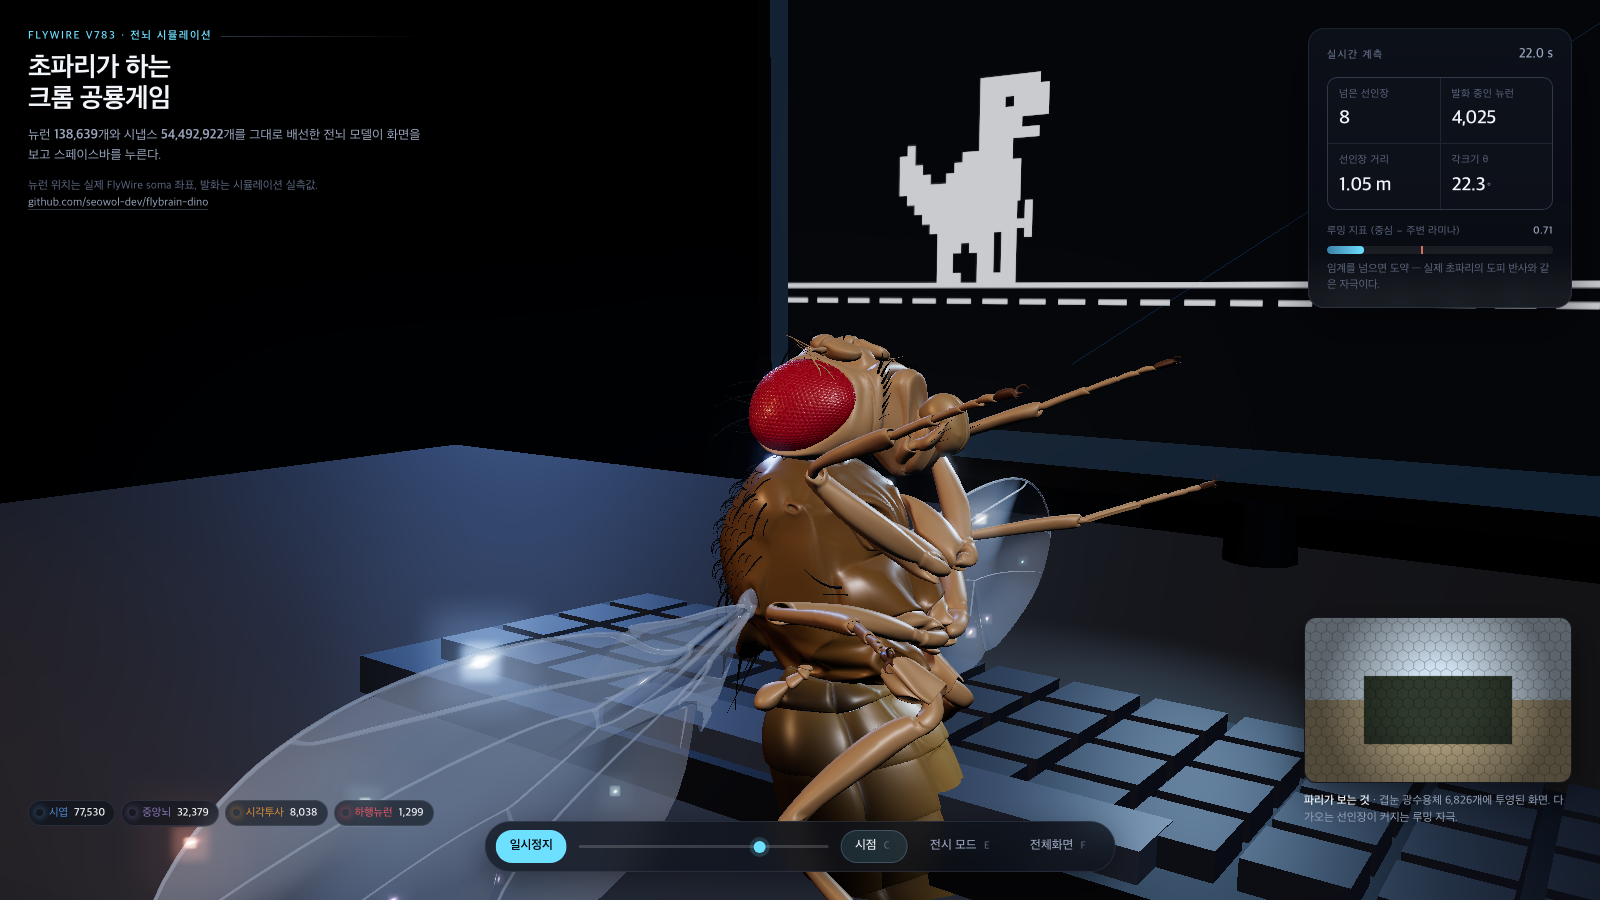
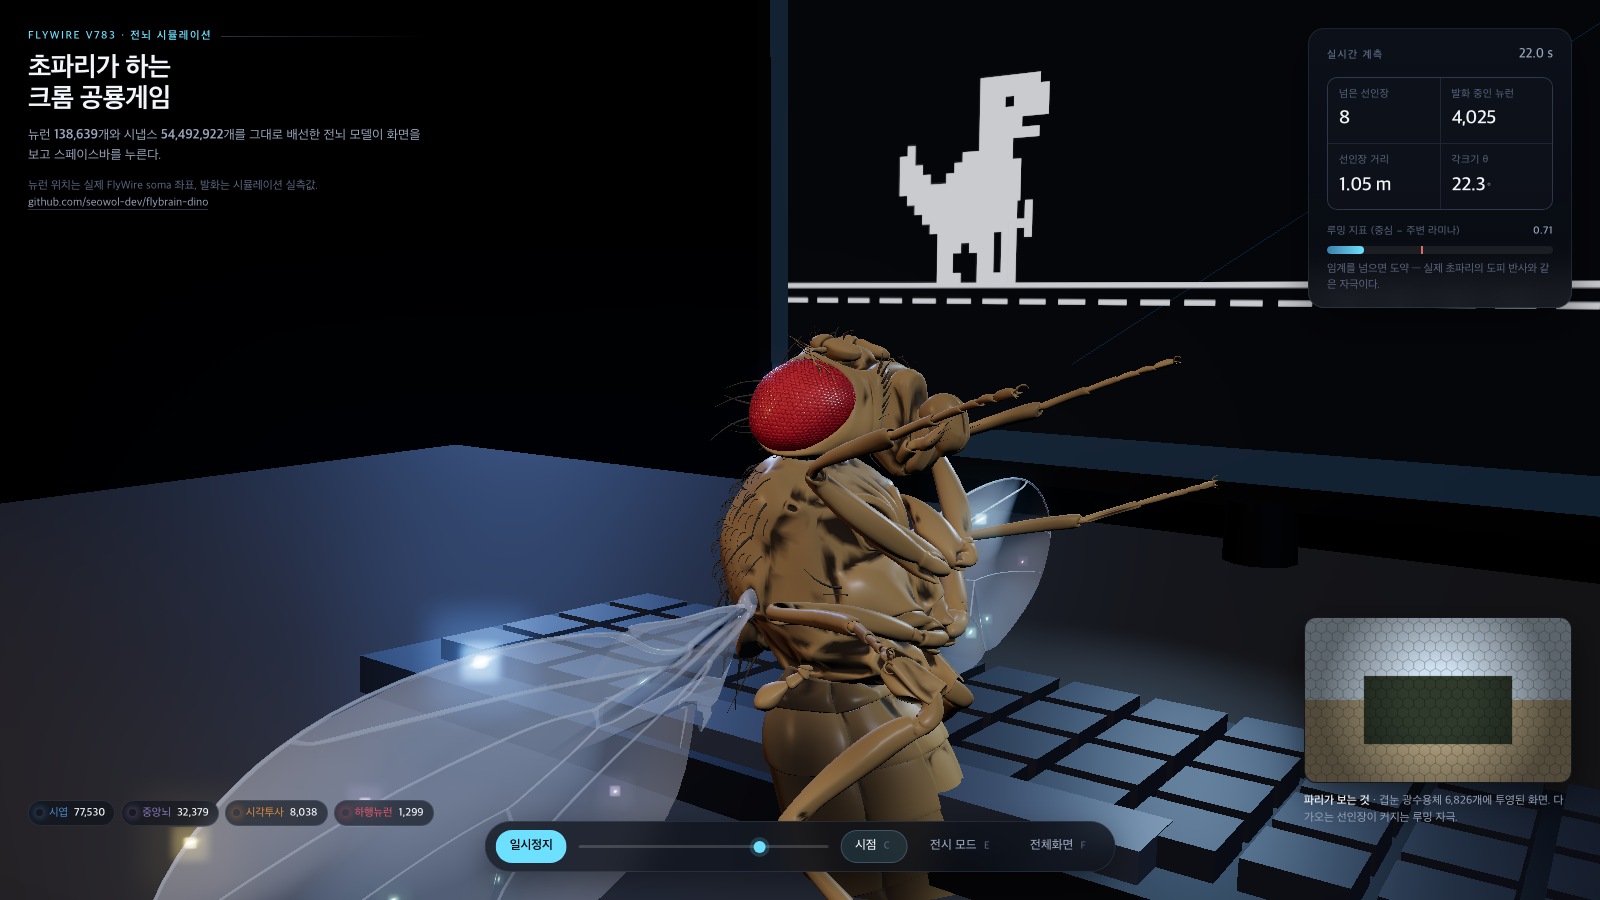
초파리 표면 질감: 지오메트리 기반 정점색 + 거칠기 변조
모델에 UV 가 없어 이미지 텍스처를 못 쓴다. 대신 지오메트리에서 표면 디테일을 계산한다.

src/fly_detail.js — 정점색(COLOR_0) 굽기
- 요철(cavity): 이웃 정점 평균이 법선 안쪽이면 오목. 낱눈 사이 골, 배마디 틈,
  강모 뿌리가 어두워진다. **국소 모서리 길이로 정규화**하는 것이 핵심이다.
  처음엔 메시 반지름으로 나눴는데, 그러면 흉부·복부 같은 큰 매끈한 면에서 값이
  0 으로 죽어 아무 디테일도 안 나왔다(점토처럼 보이던 원인).
- 3D 값잡음 반점, 등쪽 음영, 복부 마디 뒤쪽 검은 띠.
- 겹눈은 가장자리로 갈수록 어둡게.

fly_model.js — 재질
- roughnessFromColor(): 셰이더에 한 줄 주입해 정점색 밝기로 거칠기를 변조한다.
  골은 거칠고 융기는 매끈하다. 알베도보다 광택 변화가 사실감에 더 기여한다.
- 겹눈 clearcoat 1.0 / roughness 0.04 (각막 렌즈), 날개 iridescence(얇은 막 간섭),
  큐티클 sheen 낮춤 — 기존 clearcoat/sheen 이 세서 알베도 디테일을 덮고 있었다.

형태는 원본 그대로이고 색과 재질만 바꿨다. ATTRIBUTION.md 에 명시했다.

diff --git a/web/src/fly_model.js b/web/src/fly_model.js
@@ -8,6 +8,7 @@
 // 로 내보낸다. 여기서 피벗을 기준으로 관절 계층을 복원해 머리·날개·앞다리를 움직인다.
 import * as THREE from '../vendor/three.module.js';
 import { GLTFLoader } from '../vendor/GLTFLoader.js';
+import { bakeDetail } from './fly_detail.js';
 
 const SKIN = {
   body: 0xb0682a, lower: 0xcb9a5f, black: 0x121212,
@@ -67,64 +68,83 @@ function depth(parts, name) {
   return d;
 }
 
-// 복부 가로띠. MuJoCo 모델은 몸이 단색 황갈색이지만 실제 D. melanogaster 는 각 배마디
-// 뒤쪽에 검은 띠가 있고 끝으로 갈수록 어두워진다. 몸 장축(z) 기준 톱니 함수로 정점색을
-// 칠해 이를 만든다. (형태가 아니라 색만 더한 것이다.)
-function abdomenBands(mesh) {
-  const g = mesh.geometry;
-  const pos = g.attributes.position;
-  g.computeBoundingBox();
-  const bb = g.boundingBox;
-  const z0 = bb.min.z, z1 = bb.max.z, span = Math.max(z1 - z0, 1e-6);
-  const col = new Float32Array(pos.count * 3);
-  const light = new THREE.Color(0xc79a53), dark = new THREE.Color(0x2b1c0c);
-  const c = new THREE.Color();
-  for (let i = 0; i < pos.count; i++) {
-    const u = (pos.getZ(i) - z0) / span;          // 0 = 앞, 1 = 뒤
-    const edge = Math.pow(Math.max(0, u - 0.42) / 0.58, 1.4);   // 마디 뒤쪽이 어둡다
-    c.copy(light).lerp(dark, Math.min(1, edge));
-    col[i * 3] = c.r; col[i * 3 + 1] = c.g; col[i * 3 + 2] = c.b;
+// 부위 분류 — MuJoCo geom 이름(`body__geom`)에서 재질 종류를 읽는다.
+function kindOf(name) {
+  if (/_red\b|red$|_red_/.test(name)) return 'eye';
+  if (/ocelli/.test(name)) return 'ocelli';
+  if (/wing/.test(name)) return 'wing';
+  if (/bristle|_black/.test(name)) return 'bristle';
+  if (/abdomen/.test(name)) return 'abdomen';
+  return 'cuticle';
+}
+
+// 정점색의 밝기로 거칠기를 변조한다. 골(어두운 곳)은 거칠고 융기(밝은 곳)는 매끈하다.
+// 표면이 '진짜'로 보이는 데는 알베도보다 광택 변화가 더 크게 기여한다. UV 가 없어
+// roughnessMap 을 못 쓰므로 셰이더에 직접 주입한다.
+function roughnessFromColor(mat, amount) {
+  mat.onBeforeCompile = (shader) => {
+    shader.fragmentShader = shader.fragmentShader.replace(
+      '#include <roughnessmap_fragment>',
+      `#include <roughnessmap_fragment>
+       #ifdef USE_COLOR
+         float _lum = dot(vColor.rgb, vec3(0.2126, 0.7152, 0.0722));
+         roughnessFactor = clamp(roughnessFactor + (1.0 - _lum) * ${amount.toFixed(3)}, 0.03, 1.0);
+       #endif`);
+  };
+  mat.customProgramCacheKey = () => `rgh${amount}`;
+  return mat;
+}
+
+// 부위별 물리 재질. 실제 초파리 큐티클은 얇은 왁스층이 있어 살짝 번들거리고,
+// 겹눈은 각막 렌즈 때문에 젖은 듯한 강한 정반사가 난다.
+function materialFor(kind, THREE) {
+  const common = { vertexColors: true, color: 0xffffff };
+  switch (kind) {
+    case 'eye':
+      return roughnessFromColor(new THREE.MeshPhysicalMaterial({
+        ...common, roughness: 0.12, metalness: 0.0,
+        clearcoat: 1.0, clearcoatRoughness: 0.04,       // 각막 렌즈
+        specularIntensity: 1.0, specularColor: new THREE.Color(0xfff0ec),
+        emissive: new THREE.Color(0x40060a), emissiveIntensity: 0.35,
+      }), 0.55);
+    case 'ocelli':
+      return new THREE.MeshPhysicalMaterial({
+        color: 0x3a2008, roughness: 0.12, clearcoat: 1.0, clearcoatRoughness: 0.03,
+        emissive: new THREE.Color(0x1a0d02), emissiveIntensity: 0.4,
+      });
+    case 'wing':
+      return new THREE.MeshPhysicalMaterial({
+        ...common, transparent: true, opacity: 0.34, depthWrite: false,
+        roughness: 0.06, metalness: 0.0, side: THREE.DoubleSide,
+        iridescence: 1.0, iridescenceIOR: 1.32,
+        iridescenceThicknessRange: [180, 520],          // 얇은 막 간섭 → 무지개빛
+        clearcoat: 1.0, clearcoatRoughness: 0.04,
+      });
+    case 'bristle':
+      return new THREE.MeshPhysicalMaterial({
+        ...common, roughness: 0.52, metalness: 0.05, clearcoat: 0.25, clearcoatRoughness: 0.45,
+      });
+    case 'abdomen':
+      return roughnessFromColor(new THREE.MeshPhysicalMaterial({
+        ...common, roughness: 0.30, metalness: 0.05,
+        clearcoat: 0.30, clearcoatRoughness: 0.32,
+        sheen: 0.18, sheenRoughness: 0.6, sheenColor: new THREE.Color(0xffd9a0),
+      }), 0.62);
+    default:                                            // cuticle
+      return roughnessFromColor(new THREE.MeshPhysicalMaterial({
+        ...common, roughness: 0.28, metalness: 0.07,
+        clearcoat: 0.32, clearcoatRoughness: 0.30,
+        sheen: 0.20, sheenRoughness: 0.55, sheenColor: new THREE.Color(0xffd9a0),
+      }), 0.66);
   }
-  g.setAttribute('color', new THREE.BufferAttribute(col, 3));
 }
 
 function tune(mesh, name) {
-  const m = mesh.material;
-  const hex = (k) => new THREE.Color(SKIN[k]);
-  const set = (color, opts = {}) => {
-    mesh.material = new THREE.MeshPhysicalMaterial({
-      color, roughness: 0.42, metalness: 0.12, clearcoat: 0.45, clearcoatRoughness: 0.35,
-      ...opts,
-    });
-  };
-  if (/_red\b|_red__|red/.test(name)) {
-    // 겹눈 — 살짝 발광시켜 시각 입력 세기를 표현한다
-    set(hex('red'), { roughness: 0.28, clearcoat: 0.9, clearcoatRoughness: 0.12,
-      emissive: new THREE.Color(0x3a0206), emissiveIntensity: 0.5 });
-    mesh.userData.isEye = true;
-  } else if (/ocelli/.test(name)) {
-    set(hex('ocelli'), { roughness: 0.2, clearcoat: 1.0 });
-  } else if (/black|bristle/.test(name)) {
-    set(hex('black'), { roughness: 0.55, clearcoat: 0.25 });
-  } else if (/wing/.test(name)) {
-    mesh.material = new THREE.MeshPhysicalMaterial({
-      color: 0xdfeaf6, roughness: 0.08, metalness: 0.0, transparent: true, opacity: 0.30,
-      transmission: 0.0, side: THREE.DoubleSide, depthWrite: false,
-      iridescence: 0.9, iridescenceIOR: 1.25, clearcoat: 1.0,
-    });
-  } else if (/abdomen/.test(name)) {
-    abdomenBands(mesh);
-    set(0xffffff, { vertexColors: true, roughness: 0.38, clearcoat: 0.55 });
-    mesh.material.vertexColors = true;
-  } else if (/lower/.test(name)) {
-    set(hex('lower'));
-  } else if (/brown/.test(name)) {
-    set(hex('brown'));
-  } else if (/thorax/.test(name)) {
-    set(0x9c6a2e, { roughness: 0.36, clearcoat: 0.6 });
-  } else {
-    set(m && m.color ? m.color : hex('body'));
-  }
+  const kind = kindOf(name);
+  // 지오메트리에서 요철·반점을 계산해 정점색으로 굽는다 (UV 가 없어 텍스처를 못 쓴다)
+  if (kind !== 'ocelli') bakeDetail(mesh, kind === 'bristle' ? 'bristle' : kind, THREE);
+  mesh.material = materialFor(kind, THREE);
+  if (kind === 'eye') mesh.userData.isEye = true;
 }
 
 /** 프레임 애니메이션. jumpPulse 0~1, act 0~1(시각 입력 세기). */

diff --git a/web/src/fly_detail.js b/web/src/fly_detail.js
@@ -1,0 +1,125 @@
+// 정점 단위 표면 디테일 굽기 — UV 없는 메시에 텍스처 느낌을 만든다.
+//
+// 이 모델에는 UV 가 없어서 이미지 텍스처를 입힐 수 없다. 대신 지오메트리 자체에서
+// 세 가지를 계산해 정점색(COLOR_0)으로 굽는다.
+//
+//   1) 요철(cavity) : 이웃 정점들의 평균 위치가 법선 '안쪽'에 있으면 오목한 곳이다.
+//                     낱눈 사이 골, 배마디 틈, 강모 뿌리가 어두워진다. 형태가 드러나는
+//                     가장 큰 요인이다.
+//   2) 곡면 노출     : 바깥으로 볼록한 곳은 빛을 더 받는다(얕은 AO 대용).
+//   3) 반점(mottle)  : 3D 값잡음. 실제 큐티클은 균일한 플라스틱이 아니다.
+//
+// 모두 지오메트리에서 나오므로 좌표계·스케일이 바뀌어도 같은 결과가 나온다.
+
+const H = (x, y, z) => {
+  // 결정적 3D 해시 (0~1)
+  let h = Math.imul(x | 0, 374761393) ^ Math.imul(y | 0, 668265263) ^ Math.imul(z | 0, 2147483647);
+  h = Math.imul(h ^ (h >>> 13), 1274126177);
+  return ((h ^ (h >>> 16)) >>> 0) / 4294967296;
+};
+
+function valueNoise(x, y, z) {
+  const xi = Math.floor(x), yi = Math.floor(y), zi = Math.floor(z);
+  const xf = x - xi, yf = y - yi, zf = z - zi;
+  const s = (t) => t * t * (3 - 2 * t);
+  const u = s(xf), v = s(yf), w = s(zf);
+  let n = 0;
+  for (let dz = 0; dz < 2; dz++) {
+    for (let dy = 0; dy < 2; dy++) {
+      for (let dx = 0; dx < 2; dx++) {
+        const wt = (dx ? u : 1 - u) * (dy ? v : 1 - v) * (dz ? w : 1 - w);
+        n += wt * H(xi + dx, yi + dy, zi + dz);
+      }
+    }
+  }
+  return n;
+}
+
+/** 이웃 평균 위치 기준 오목도 (0 = 평평/볼록, 1 = 깊이 오목). */
+function cavity(geo) {
+  const pos = geo.attributes.position, nrm = geo.attributes.normal;
+  const n = pos.count;
+  const sum = new Float32Array(n * 3);
+  const cnt = new Uint32Array(n);
+  const idx = geo.index;
+  const add = (a, b) => {
+    sum[a * 3] += pos.getX(b); sum[a * 3 + 1] += pos.getY(b); sum[a * 3 + 2] += pos.getZ(b);
+    cnt[a]++;
+  };
+  if (idx) {
+    for (let i = 0; i < idx.count; i += 3) {
+      const a = idx.getX(i), b = idx.getX(i + 1), c = idx.getX(i + 2);
+      add(a, b); add(a, c); add(b, a); add(b, c); add(c, a); add(c, b);
+    }
+  }
+  // **국소 모서리 길이**로 정규화한다. 메시 반지름으로 나누면 큰 매끈한 면(흉부·복부)에서
+  // 값이 0 에 수렴해 아무 디테일도 안 나온다. 요철은 국소적인 성질이다.
+  const out = new Float32Array(n);
+  let edgeSum = 0, edgeN = 0;
+  for (let i = 0; i < n; i++) {
+    if (!cnt[i]) continue;
+    const dx = sum[i * 3] / cnt[i] - pos.getX(i);
+    const dy = sum[i * 3 + 1] / cnt[i] - pos.getY(i);
+    const dz = sum[i * 3 + 2] / cnt[i] - pos.getZ(i);
+    const len = Math.hypot(dx, dy, dz);
+    edgeSum += len; edgeN++;
+    // 법선 방향 성분: 양수면 이웃이 바깥 → 오목
+    out[i] = dx * nrm.getX(i) + dy * nrm.getY(i) + dz * nrm.getZ(i);
+  }
+  const mean = Math.max(edgeSum / Math.max(edgeN, 1), 1e-9);
+  for (let i = 0; i < n; i++) out[i] = Math.max(0, Math.min(1, (out[i] / mean) * 4.2));
+  return out;
+}
+
+/**
+ * 정점색을 굽는다.
+ * kind: 'eye' | 'cuticle' | 'abdomen' | 'wing' | 'bristle'
+ */
+export function bakeDetail(mesh, kind, THREE) {
+  const g = mesh.geometry;
+  if (!g.attributes.normal) g.computeVertexNormals();
+  const pos = g.attributes.position;
+  const n = pos.count;
+  const cav = cavity(g);
+  g.computeBoundingBox();
+  const bb = g.boundingBox;
+  const span = Math.max(bb.max.z - bb.min.z, 1e-6);
+  const col = new Float32Array(n * 3);
+
+  const P = {
+    eye:      { base: [0.70, 0.050, 0.030], dark: [0.13, 0.010, 0.012], cavK: 0.85, noise: 620, noiseAmt: 0.18, dorsal: 0.0 },
+    cuticle:  { base: [0.55, 0.325, 0.115], dark: [0.055, 0.028, 0.010], cavK: 1.15, noise: 46,  noiseAmt: 0.30, dorsal: 0.34 },
+    abdomen:  { base: [0.60, 0.39, 0.15],   dark: [0.035, 0.020, 0.009], cavK: 1.05, noise: 40,  noiseAmt: 0.22, dorsal: 0.20 },
+    wing:     { base: [0.86, 0.90, 0.96],   dark: [0.30, 0.38, 0.50],   cavK: 1.30, noise: 90,  noiseAmt: 0.05, dorsal: 0.0 },
+    bristle:  { base: [0.10, 0.072, 0.045], dark: [0.02, 0.015, 0.010], cavK: 0.50, noise: 60,  noiseAmt: 0.06, dorsal: 0.0 },
+  }[kind] || { base: [0.5, 0.3, 0.12], dark: [0.12, 0.07, 0.03], cavK: 0.8, noise: 60, noiseAmt: 0.2, dorsal: 0.1 };
+
+  for (let i = 0; i < n; i++) {
+    const x = pos.getX(i), y = pos.getY(i), z = pos.getZ(i);
+    let t = cav[i] * P.cavK;                       // 0 = 볼록, 1 = 오목
+    const nz = valueNoise(x * P.noise, y * P.noise, z * P.noise);
+    t = Math.min(1, t + (nz - 0.5) * P.noiseAmt);
+    // 등쪽(+y)이 어둡다 — 실제 초파리는 흉배와 배등판이 진하고 배쪽이 밝다
+    if (P.dorsal > 0) {
+      const uy = (y - bb.min.y) / Math.max(bb.max.y - bb.min.y, 1e-6);
+      t = Math.min(1, t + uy * P.dorsal);
+    }
+    // 복부는 마디 뒤쪽이 검다 (실제 D. melanogaster)
+    if (kind === 'abdomen') {
+      const u = (z - bb.min.z) / span;
+      t = Math.min(1, t + Math.pow(Math.max(0, u - 0.44) / 0.56, 1.35) * 0.95);
+    }
+    // 겹눈은 가장자리로 갈수록 어둡다
+    if (kind === 'eye') {
+      const r = Math.hypot(x - (bb.min.x + bb.max.x) / 2, y - (bb.min.y + bb.max.y) / 2);
+      const rmax = Math.max(bb.max.x - bb.min.x, bb.max.y - bb.min.y) / 2;
+      t = Math.min(1, t + Math.pow(Math.min(1, r / Math.max(rmax, 1e-6)), 3.0) * 0.45);
+    }
+    const k = Math.max(0, Math.min(1, t));
+    col[i * 3] = P.base[0] + (P.dark[0] - P.base[0]) * k;
+    col[i * 3 + 1] = P.base[1] + (P.dark[1] - P.base[1]) * k;
+    col[i * 3 + 2] = P.base[2] + (P.dark[2] - P.base[2]) * k;
+  }
+  g.setAttribute('color', new THREE.BufferAttribute(col, 3));
+  return g;
+}

diff --git a/web/README.md b/web/README.md
@@ -15,7 +15,8 @@ cd web && python3 -m http.server 8000     # http://localhost:8000
 | 점이 밝아지는 순간 | LIF 시뮬레이션에서 그 뉴런이 실제로 발화한 시점 (20 Hz 표본) |
 | 모니터의 게임 화면 | 폐회로 실행 중의 실제 게임 상태 |
 | 파리 시점 패널 | 광수용체에 투영된 장면을 같은 기하로 다시 그린 것 |
-| 초파리 3D 모델 | **TuragaLab/flybody** 의 해부학적 성체 *D. melanogaster* 몸 모델 (Apache-2.0). 날개 시맥·강모·부절 마디까지 실제 형태다. 출처와 변경 내역은 [`assets/ATTRIBUTION.md`](assets/ATTRIBUTION.md) |
+| 초파리 3D 모델 | **TuragaLab/flybody** 의 해부학적 성체 *D. melanogaster* 몸 모델 (Apache-2.0). 날개 시맥·강모·부절 마디·겹눈 낱눈까지 실제 형태다. 출처와 변경 내역은 [`assets/ATTRIBUTION.md`](assets/ATTRIBUTION.md) |
+| 초파리 표면 질감 | 지오메트리에서 계산한 것이지 사진 텍스처가 아니다. 아래 참고 |
 
 ## 조작
 
@@ -32,6 +33,24 @@ cd web && python3 -m http.server 8000     # http://localhost:8000
 ```
 https://<user>.github.io/<repo>/?kiosk=1
 ```
+
+## 표면 질감을 어떻게 만들었나
+
+이 모델에는 UV 가 없어서 이미지 텍스처를 입힐 수 없다. 대신 `src/fly_detail.js` 가
+**지오메트리 자체에서** 세 가지를 계산해 정점색(COLOR_0)으로 굽는다.
+
+1. **요철(cavity)** — 이웃 정점들의 평균 위치가 법선 안쪽에 있으면 오목한 곳이다.
+   낱눈 사이 골, 배마디 틈, 강모 뿌리가 어두워진다. 국소 모서리 길이로 정규화하므로
+   메시 크기와 무관하다(메시 반지름으로 나누면 흉부 같은 큰 면에서 값이 0 으로 죽는다).
+2. **반점(mottle)** — 3D 값잡음. 실제 큐티클은 균일한 플라스틱이 아니다.
+3. **부위별 음영** — 등쪽(+y)이 어둡고, 복부는 마디 뒤쪽이 검다(실제 *D. melanogaster*).
+
+그리고 `fly_model.js` 의 `roughnessFromColor()` 가 셰이더에 한 줄을 주입해
+**정점색 밝기로 거칠기를 변조**한다. 골은 거칠고 융기는 매끈하다. 표면이 진짜로 보이는
+데는 알베도보다 광택 변화가 더 크게 기여한다.
+
+겹눈은 clearcoat 1.0 / clearcoatRoughness 0.04 로 각막 렌즈의 젖은 반사를, 날개는
+iridescence 로 얇은 막 간섭(무지개빛)을 만든다.
 
 ## 3D 모델 다시 만들기
 

diff --git a/web/assets/ATTRIBUTION.md b/web/assets/ATTRIBUTION.md
@@ -21,8 +21,9 @@
 3. 정점 용접 + 단순화(meshoptimizer, 비율 0.30, 오차 0.0002): 817,650 → 113737 정점, 12.4 MB → 2.6 MB.
    오차 허용치를 작게 잡아 겹눈의 **낱눈(ommatidia) 격자**가 지오메트리로 남게 했다.
 4. 법선은 용량 때문에 뺐고 브라우저에서 계산한다.
-5. 재질은 MuJoCo `<material>` 의 rgba 를 따르되, 복부에는 정점색으로 **가로띠**를 더했다.
-   원본 모델은 몸이 단색 황갈색이지만 실제 *D. melanogaster* 는 배마디 뒤쪽이 검다.
-   (형태는 건드리지 않았고 색만 더한 것이다.)
+5. 재질과 표면 질감을 새로 만들었다. 원본은 부위마다 단색 rgba 하나뿐이다.
+   지오메트리에서 요철·반점을 계산해 정점색으로 굽고, 그 밝기로 거칠기를 변조한다
+   (`web/src/fly_detail.js`, `fly_model.js`). 복부 가로띠와 등쪽 음영도 여기서 더했다.
+   **형태(정점 위치)는 원본 그대로이며 색과 재질만 바꾼 것이다.**
 
 메시 형태 자체는 원본 그대로이며, 해부학적으로 측정된 성체 *Drosophila melanogaster* 다.
